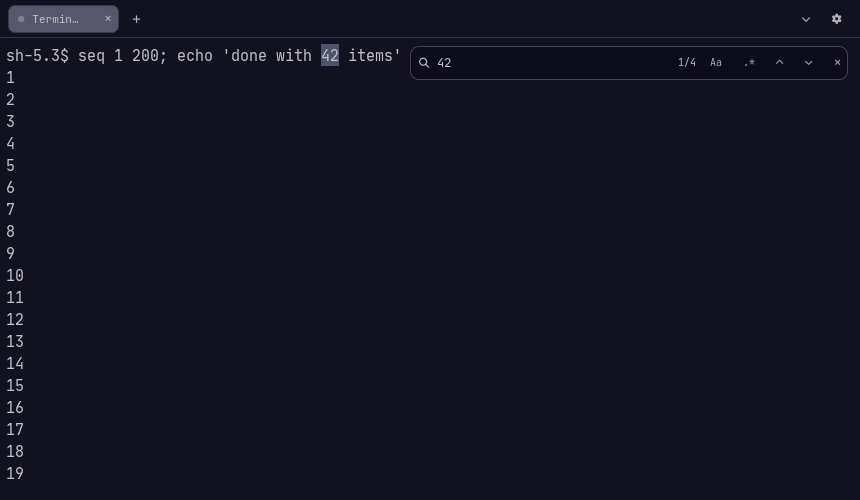
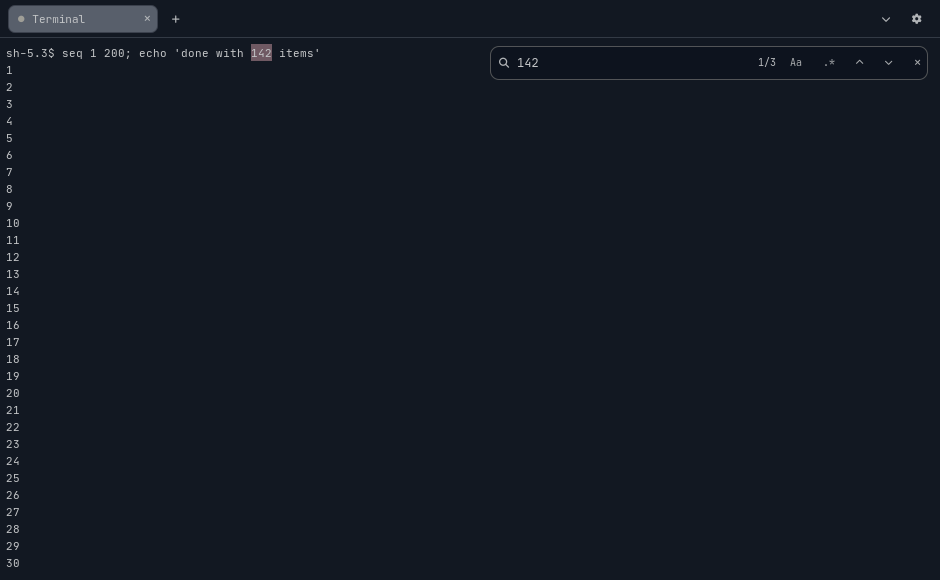
hyprtk v1.8.4: hyprtk-term 0.2.2 — the README's search screenshot is committed
docs/search.png was ignored by the app's .gitignore, so it never reached the
app repository and GitHub rendered a broken image. Rule removed, image
regenerated, and the app's tests now check markdown links and image tracking.

Docs and one vendored image only; gate carried from v1.8.0.

diff --git a/installer/hyprtk-term/hyprtk_term/__init__.py b/installer/hyprtk-term/hyprtk_term/__init__.py
@@ -1,6 +1,6 @@
 """hyprtk-term: a fast, theme-aware terminal for the hyprtk desktop."""
 
-__version__ = "0.2.1"
+__version__ = "0.2.2"
 
 APP_ID = "hyprtk-term"
 APP_NAME = "hyprtk-term"

diff --git a/installer/hyprtk-term/README.md b/installer/hyprtk-term/README.md
@@ -8,7 +8,7 @@ underneath. It follows the wallpaper, opens in a few hundred milliseconds and
 keeps a real shell honest: alt screen, truecolor, wide characters, scrollback,
 mouse reporting and bracketed paste all work.
 
-**Current version: 0.2.1** — see [CHANGELOG.md](CHANGELOG.md) and [PLAN.md](PLAN.md).
+**Current version: 0.2.2** — see [CHANGELOG.md](CHANGELOG.md) and [PLAN.md](PLAN.md).
 
 ![hyprtk-term](hyprtk_term/assets/hyprtk-term.svg)
 
@@ -128,7 +128,7 @@ grid, ~3 ms to paint it. Numbers and method in [RESEARCH.md](RESEARCH.md).
 ## Development
 
 ```bash
-make test     # 120 unit tests, no display needed
+make test     # 122 unit tests, no display needed
 make qa       # tests + qmllint + headless boot + installer round-trip
 make shot     # offscreen screenshot to docs/probe.png
 make run

diff --git a/installer/hyprtk-term/CHANGELOG.md b/installer/hyprtk-term/CHANGELOG.md
@@ -1,5 +1,19 @@
 # Changelog
 
+## 0.2.2 — 2026-11-18
+
+### Fixed
+
+- **The scrollback-search screenshot in the README renders again.**
+  `docs/search.png` was added to the README while `.gitignore` still ignored
+  `docs/*.png` (only `probe.png` was un-ignored), so the file existed locally,
+  in the vendored copy and on disk — just never in the repository. GitHub showed
+  a broken image. The ignore rule is gone and the image is regenerated against
+  the current UI.
+- New `tests/test_docs.py`: every relative link and image in the markdown must
+  exist, and every image the README shows must be tracked by git (the second
+  half is what actually catches this class of bug).
+
 ## 0.2.1 — 2026-11-18
 
 ### Fixed
